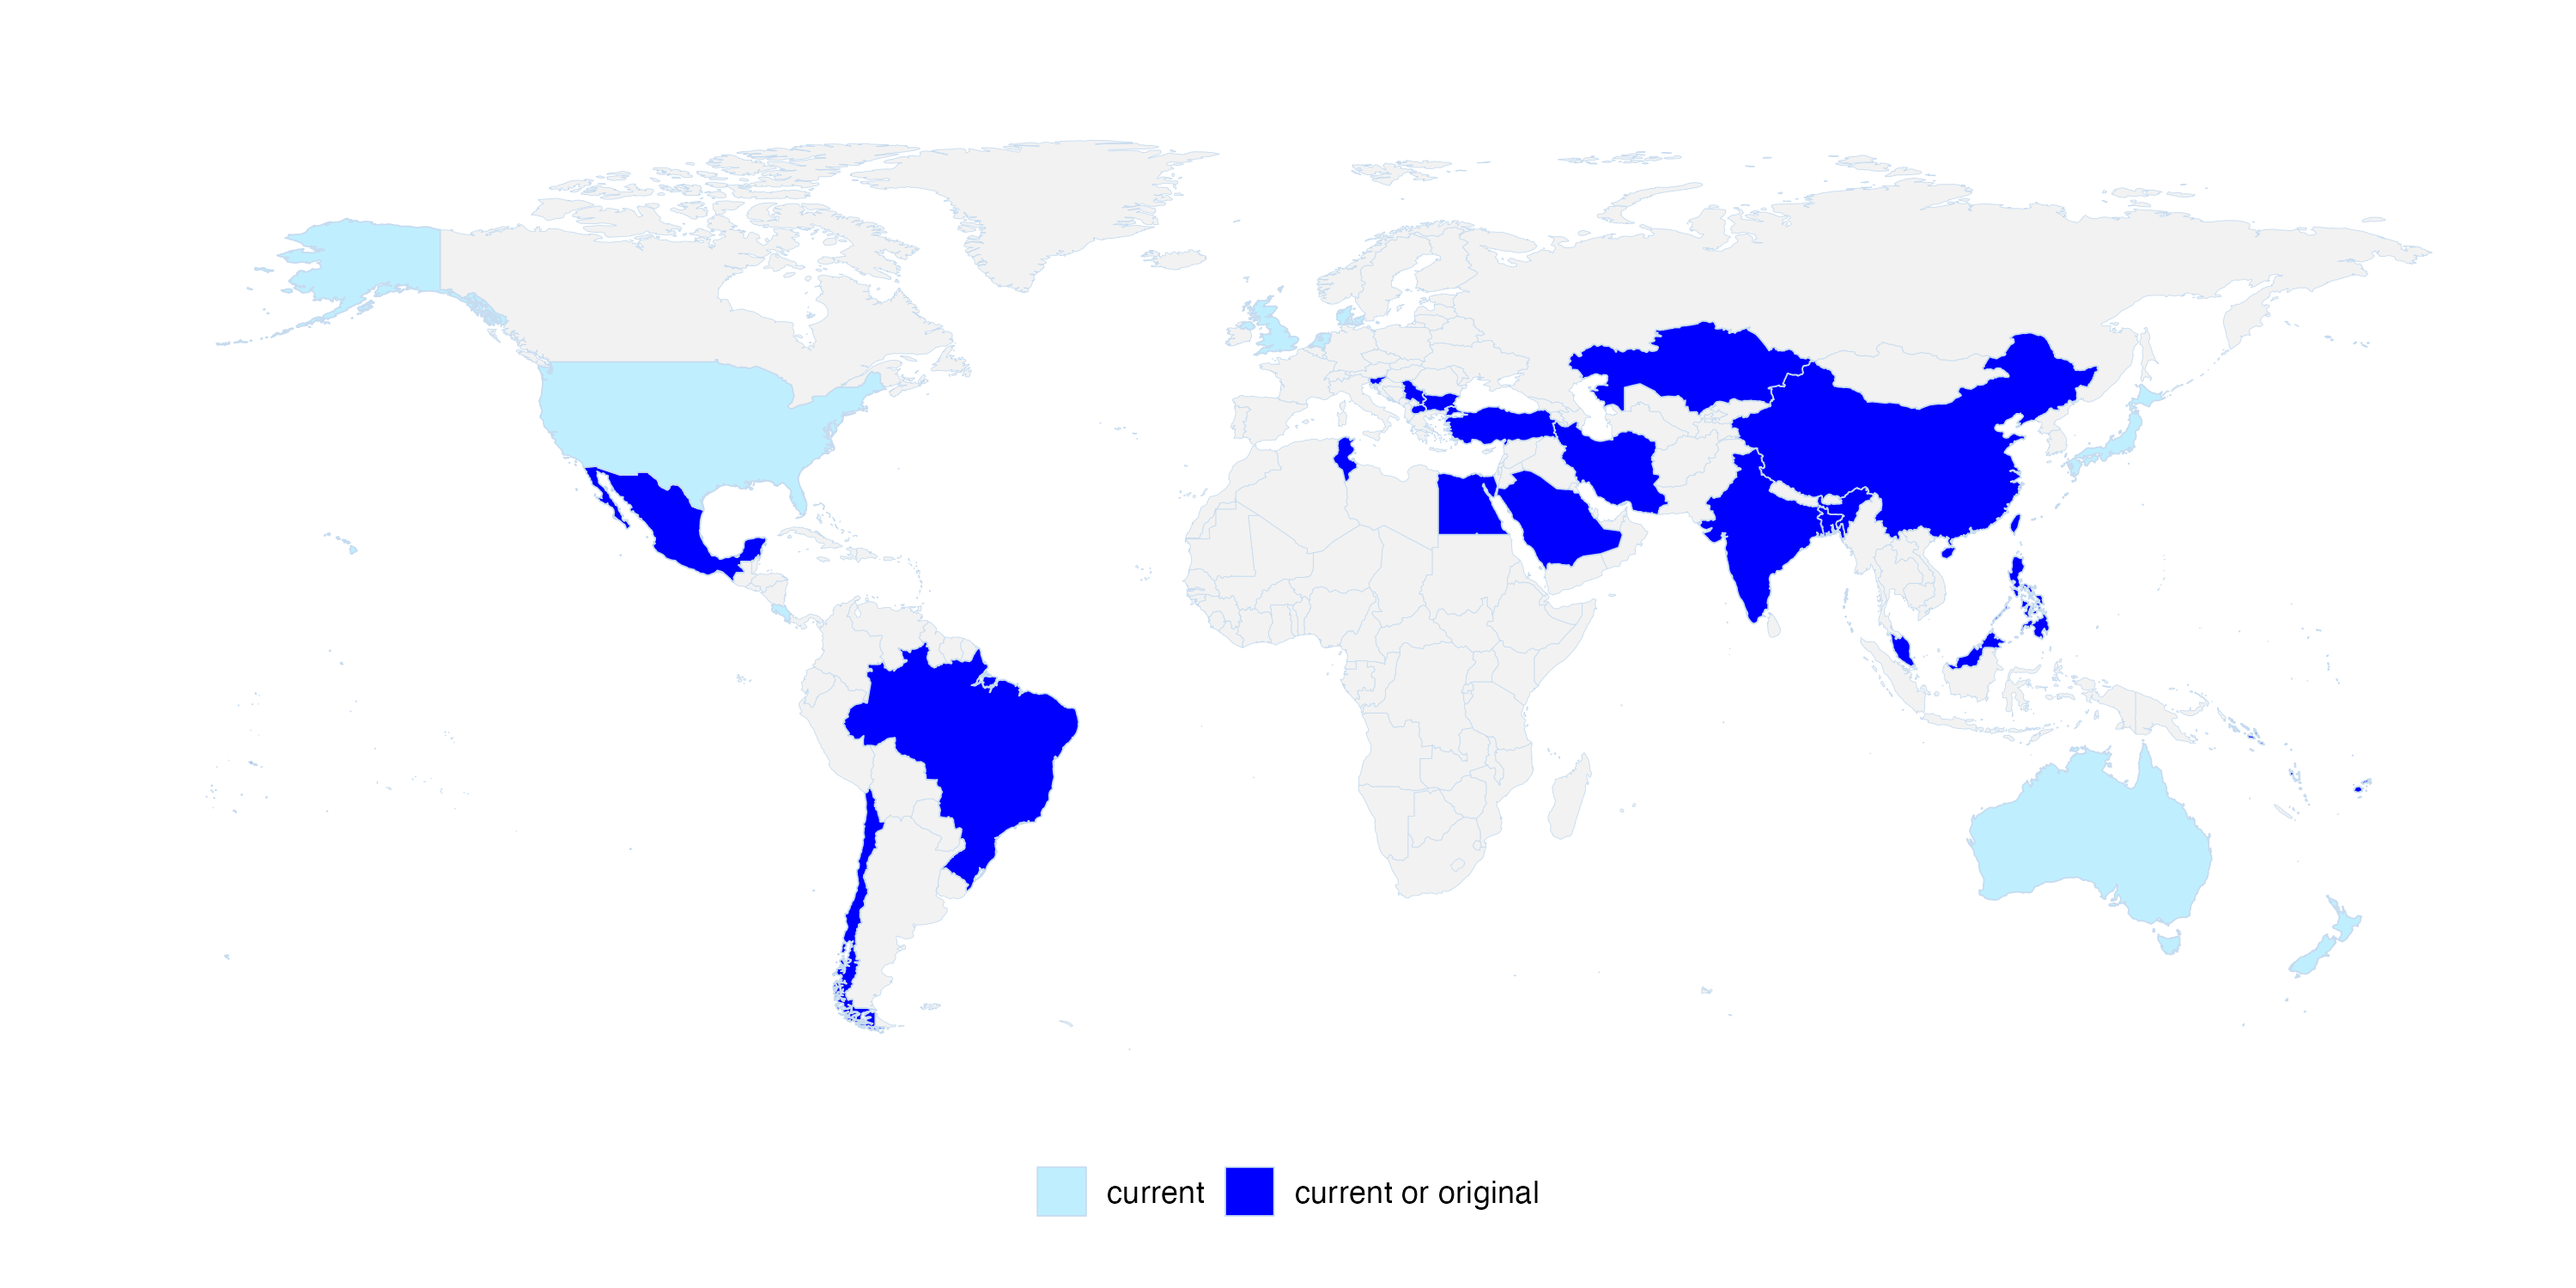
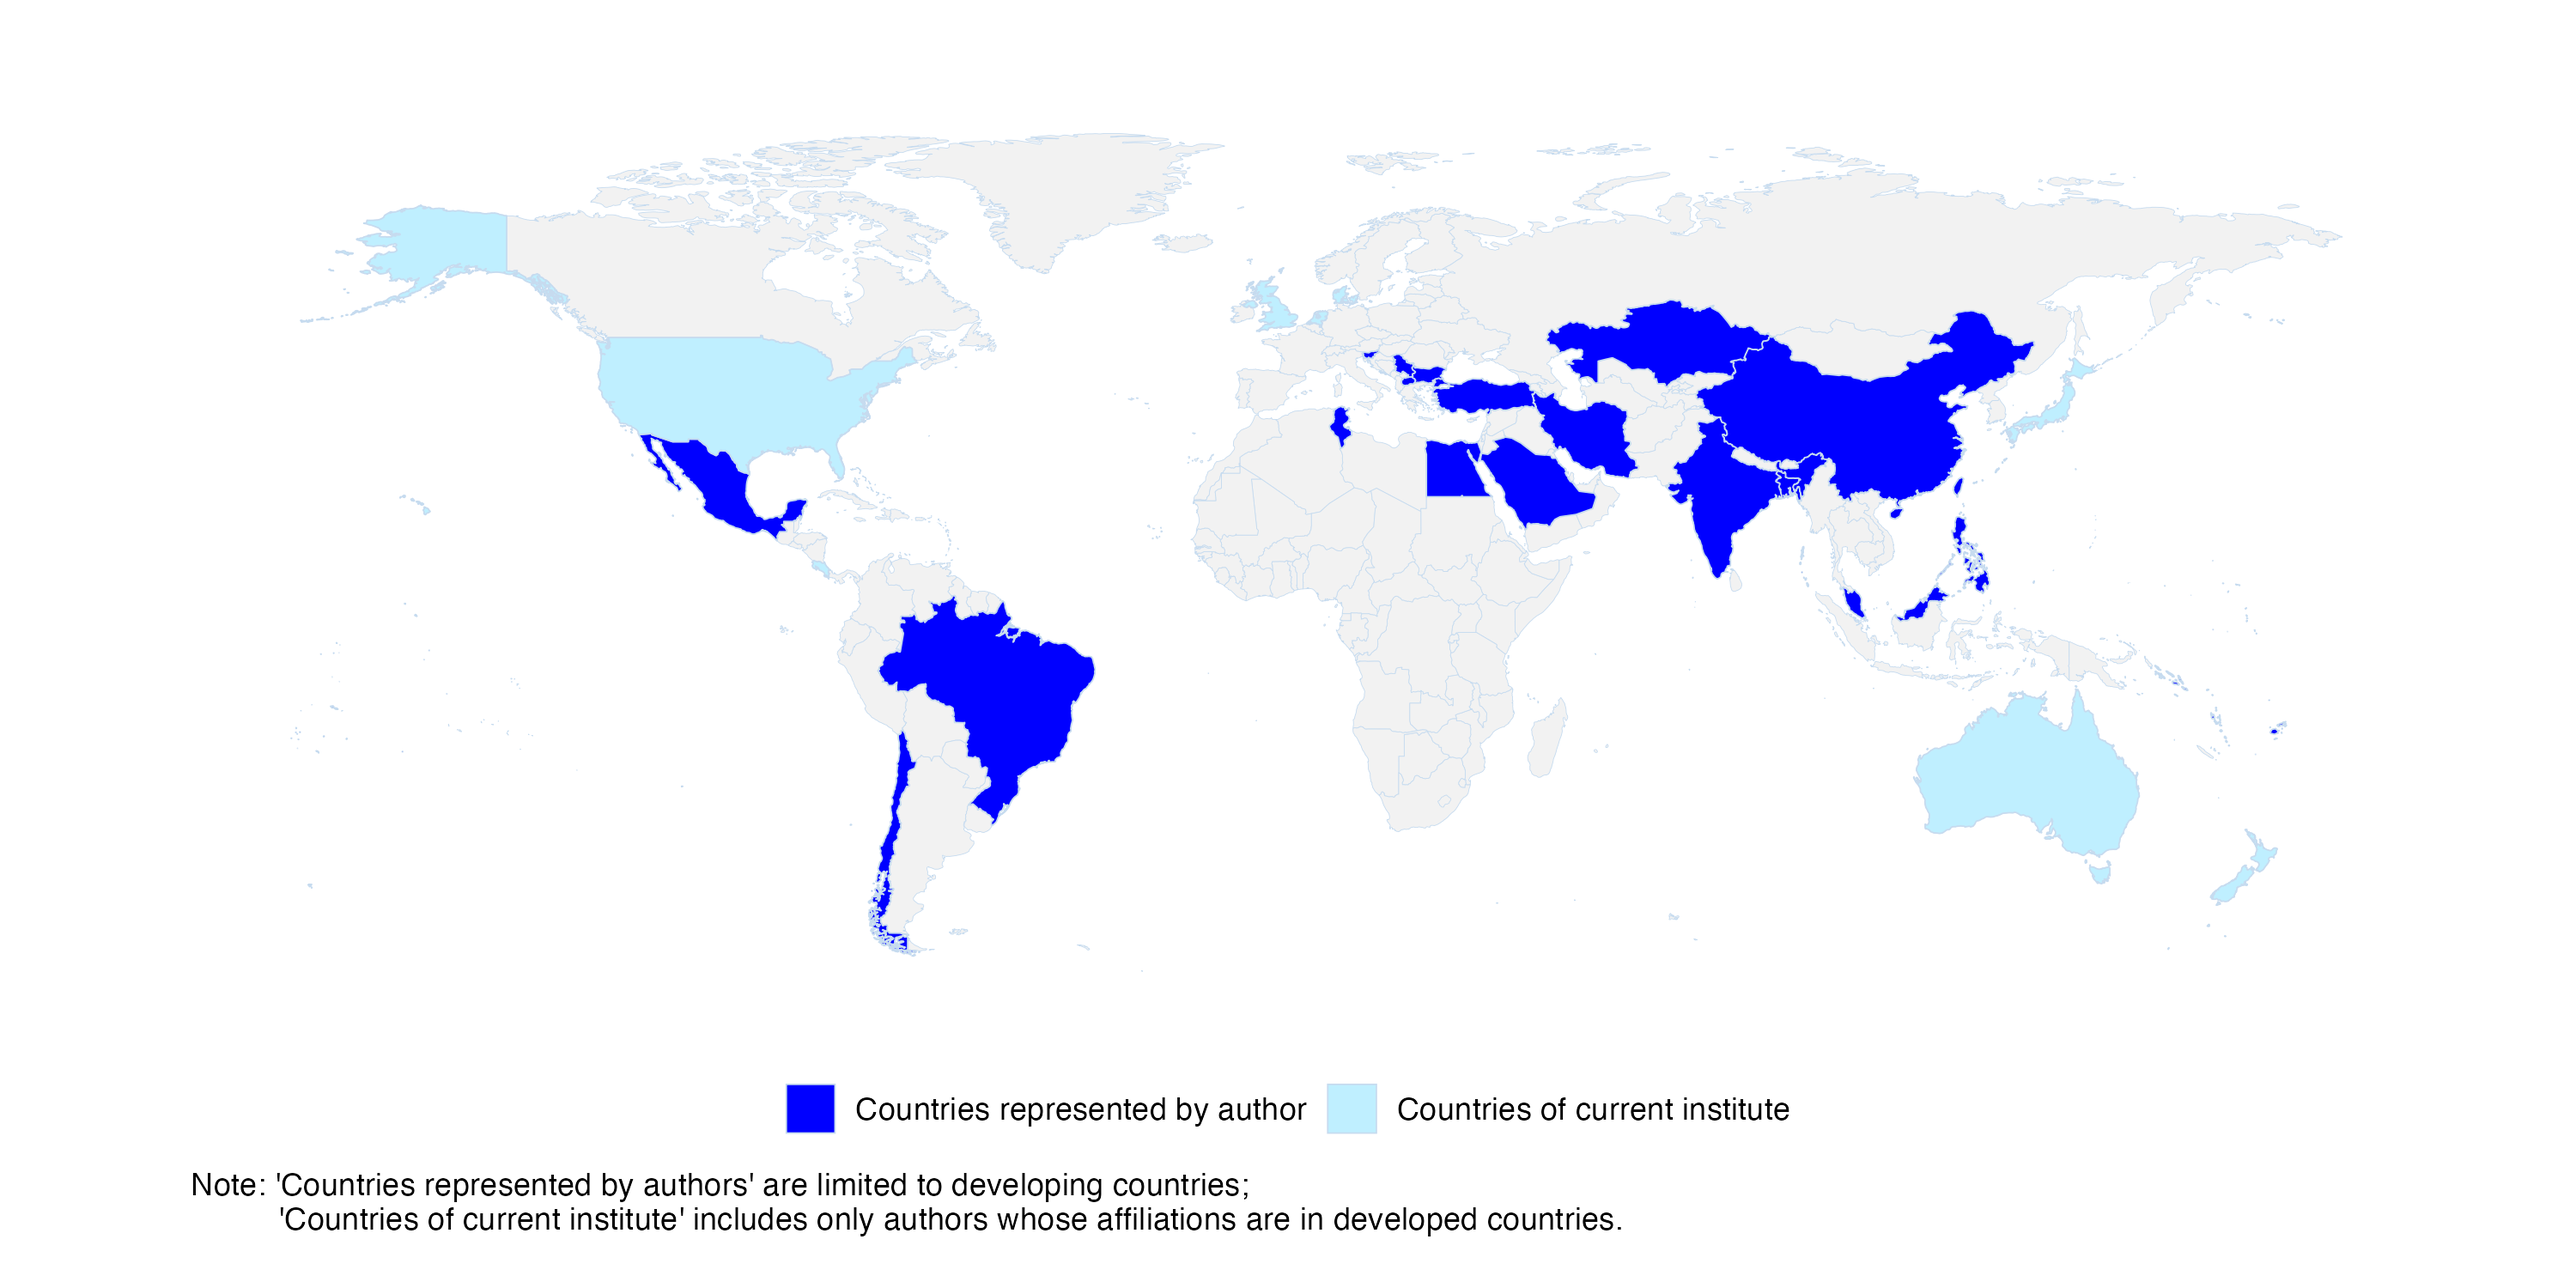
update map during revision

diff --git a/README.md b/README.md
@@ -35,6 +35,7 @@ Dr. Hu Chuan-Peng, School of Psychology, Nanjing Normal University, Nanjing, Chi
 -   [x] Internal Review. We thank the following researchers for their valuable comments and suggestions: Dr. [Chris Grahmam](https://www.researchgate.net/profile/Chris-Graham-17), Dr. [Crystal Stentopohl](https://cnsyoung.com/)
 
 -   [x] [Preprint](http://osf.io/7ubk2) & Submission (2025-03-03).
+-   [ ] Under-revision (2025-05).
 
 ## Conference presentations
 
